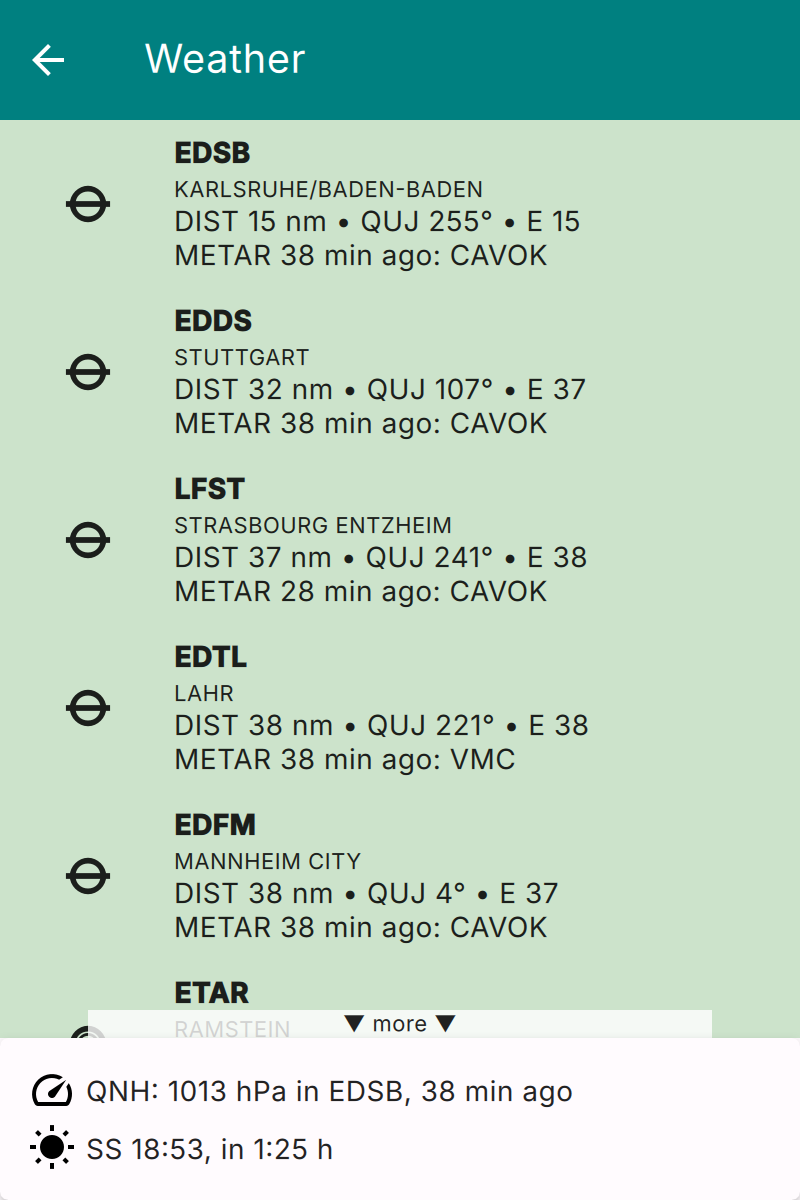
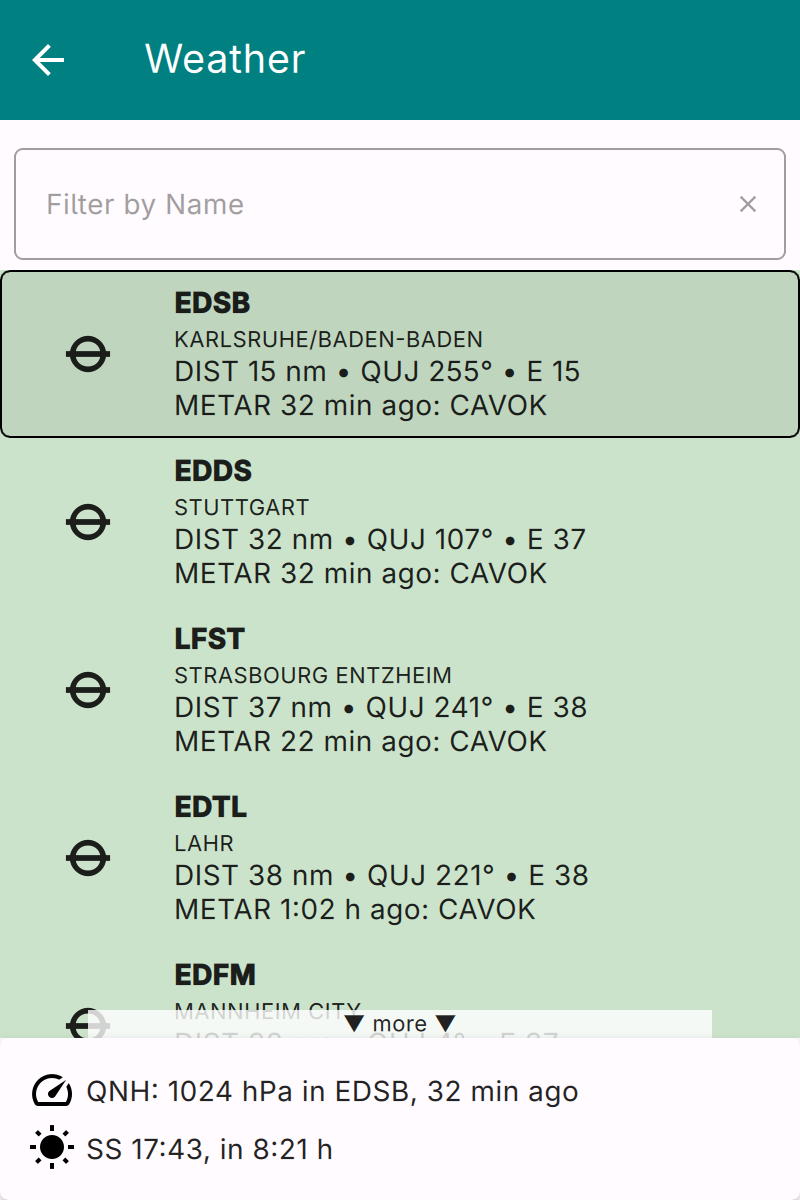
Update

diff --git a/src/11-appendix/licenses_overview.rst b/src/11-appendix/licenses_overview.rst
@@ -1,7 +1,10 @@
 - `Adobe Glyph List For New Fonts <https://github.com/adobe-type-tools/agl-aglfn>`_. BSD 3-Clause "New" or "Revised" License.
+- Android getRotationMatrix and getOrientation. Apache License 2.0.
+- `AndroidX libraries <https://developer.android.com/jetpack/androidx>`_. Apache License 2.0.
 - `Anti-aliasing rasterizer from FreeType 2 <http://www.freetype.org>`_. Freetype Project License or GNU General Public License v2.0 only.
 - `Apache Tika MimeType Definitions <https://github.com/apache/tika/tree/main/tika-core/src/main/resources/org/apache/tika/mime>`_. Apache License 2.0.
 - `BLAKE2 (reference implementation) <https://blake2.net/>`_. Creative Commons Zero v1.0 Universal or Apache License 2.0.
+- `BlueZ <http://www.bluez.org/>`_. GNU General Public License v2.0 only (This does not force user code to be GPL'ed. For more info see details.).
 - `Catch2 <https://github.com/catchorg/Catch2>`_. Boost Software License 1.0.
 - `Clip2Tri Polygon Triangulation Library <https://github.com/raptor/clip2tri>`_. MIT License.
 - `Clipper Polygon Clipping Library <https://sourceforge.net/projects/polyclipping/>`_. Boost Software License 1.0.
@@ -15,24 +18,19 @@
 - `Easing Equations by Robert Penner <http://robertpenner.com/easing/>`_. BSD 3-clause "New" or "Revised" License.
 - `Efficient Binary-Decimal and Decimal-Binary Conversion Routines for IEEE Doubles <https://github.com/google/double-conversion>`_. BSD 3-clause "New" or "Revised" License.
 - `Emoji Segmenter <https://github.com/google/emoji-segmenter>`_. Apache License 2.0.
-- `extra-cmake-modules <https://api.kde.org/ecm/>`_. BSD-3-Clause.
 - `fontawesome <https://github.com/FortAwesome/Font-Awesome>`_. SIL Open Font Licence 1.1.
 - forkfd. MIT License.
 - `Freetype 2 <http://www.freetype.org>`_. Freetype Project License or GNU General Public License v2.0 only.
 - `Freetype 2 - Bitmap Distribution Format (BDF) support <http://www.freetype.org>`_. MIT License.
 - `Freetype 2 - Portable Compiled Format (PCF) support <http://www.freetype.org>`_. MIT License and MIT Open Group variant.
 - `Freetype 2 - zlib <http://www.freetype.org>`_. zlib License.
-- Gear Icon. MIT License.
-- `Georama <https://github.com/productiontype/Georama>`_. SIL Open Font License 1.1.
 - `Google Fonts <https://github.com/google/fonts>`_. Apache 2 License.
 - `Google Material Icon Font <https://fonts.google.com/icons>`_. Apache Licence 2.0.
-- `Gradle wrapper <https://gradle.org>`_. Apache License 2.0.
 - `Guidelines Support Library <https://github.com/microsoft/GSL>`_. MIT License.
 - `HarfBuzz-NG <http://harfbuzz.org>`_. MIT License.
 - `JavaScriptCore Macro Assembler <https://trac.webkit.org/wiki/JavaScriptCore>`_. BSD 2-clause "Simplified" License.
 - `jQuery <https://github.com/jquery/jquery>`_. MIT License.
 - `KDAB's helper class for single-instance policy applications <https://github.com/KDAB/KDSingleApplication>`_. MIT License.
-- `KWin <https://www.kde.org/>`_. BSD 3-Clause "New" or "Revised" License.
 - `libdbus-1 headers <https://www.freedesktop.org/wiki/Software/dbus/>`_. Academic Free License v2.1, or GNU General Public License v2.0 or later.
 - `LibJPEG-turbo <http://libjpeg-turbo.virtualgl.org/>`_. Independent JPEG Group License and BSD 3-Clause "New" or "Revised" License.
 - `LibPNG <http://www.libpng.org/pub/png/libpng.html>`_. libpng License and PNG Reference Library version 2.
@@ -40,10 +38,8 @@
 - `libzip <https://libzip.org>`_. 3-clause BSD license.
 - `Linux Performance Events <https://www.kernel.org>`_. GNU General Public License v2.0 only with Linux Syscall Note.
 - `lunr.js <https://github.com/olivernn/lunr.js>`_. MIT License.
-- Map of Europe from Wikipedia. Creative Commons Attribution 3.0 Unported.
 - `Material Design Icons <https://github.com/google/material-design-icons>`_. Apache License.
 - `Material Sphinx Theme <https://github.com/bashtage/sphinx-material/>`_. MIT License.
-- `Material Symbols and Icons <https://fonts.google.com/icons>`_. Apache License Version 2.0.
 - MD4. Public Domain.
 - `MD4C <https://github.com/mity/md4c>`_. MIT License.
 - MD5. Public Domain.
@@ -60,7 +56,6 @@
 - `Poly2Tri Polygon Triangulation Library <https://github.com/greenm01/poly2tri>`_. BSD 3-clause "New" or "Revised" License.
 - `Presentation Time Protocol <https://wayland.freedesktop.org>`_. MIT License.
 - QEventDispatcher on macOS. BSD 3-clause "New" or "Revised" License.
-- `QHttpEngine <https://github.com/nitroshare/qhttpengine>`_. MIT License.
 - `Qt Toolkit, Libraries and Modules <https://qt.io>`_. GNU General Public License v3.0.
 - `Secure Hash Algorithm SHA-1 <http://www.dominik-reichl.de/projects/csha1/>`_. Public Domain.
 - Secure Hash Algorithm SHA-3 - brg_endian. BSD 2-clause "Simplified" License.
@@ -71,14 +66,22 @@
 - Smooth Scaling Algorithm. BSD 2-clause "Simplified" License and Imlib2 License.
 - `SQLite <https://www.sqlite.org/>`_. SQLite Blessing.
 - `sRGB color profile icc file <http://www.color.org/>`_. International Color Consortium License.
+- `sunset <https://github.com/buelowp/sunset>`_. GNU General Public License v2.0 or later.
+- Text Codec: EUC-JP. BSD 2-clause "Simplified" License.
+- Text Codec: EUC-KR. BSD 2-clause "Simplified" License.
+- Text Codec: GBK. BSD 2-clause "Simplified" License.
+- Text Codec: ISO 2022-JP (JIS). BSD 2-clause "Simplified" License.
+- Text Codec: Shift-JIS. BSD 2-clause "Simplified" License.
+- Text Codec: TSCII. BSD 2-clause "Simplified" License.
+- Text Codecs: Big5, Big5-HKSCS. BSD 2-clause "Simplified" License.
 - `The Public Suffix List <http://publicsuffix.org/>`_. Mozilla Public License 2.0.
 - `TIFF Software Distribution (libtiff) <http://www.simplesystems.org/libtiff/>`_. libtiff License.
 - `TinyCBOR <https://github.com/intel/tinycbor>`_. MIT License.
-- `Titillium Web Font <https://fonts.google.com/specimen/Titillium+Web>`_. SIL OPEN FONT LICENSE Version 1.1.
 - `tl::expected <https://github.com/TartanLlama/expected/>`_. Creative Commons Zero v1.0 Universal.
 - `underscore <https://github.com/jashkenas/underscore>`_. MIT License.
 - `Unicode Character Database (UCD) <https://www.unicode.org/ucd/>`_. Unicode License Agreement - Data Files and Software (2016).
 - `Unicode Common Locale Data Repository (CLDR) <https://cldr.unicode.org/>`_. Unicode License v3.
+- `usb-serial-for-android <https://github.com/mik3y/usb-serial-for-android>`_. MIT License.
 - `Valgrind <http://valgrind.org/>`_. BSD 4-clause "Original" or "Old" License.
 - `Vulkan API Registry <https://www.khronos.org/>`_. Apache License 2.0 or MIT License.
 - `Vulkan Memory Allocator <https://github.com/GPUOpen-LibrariesAndSDKs/VulkanMemoryAllocator>`_. MIT License.
@@ -107,12 +110,10 @@
 - `Wayland xdg-activation Protocol <https://wayland.freedesktop.org>`_. MIT License.
 - `Wayland xdg-decoration Protocol <https://wayland.freedesktop.org>`_. MIT License.
 - `Wayland xdg-toplevel-icon Protocol <https://wayland.freedesktop.org>`_. MIT License.
-- Weather icons from the Noto Emoji collection. Apache License 2.0.
 - `WebGradients <https://webgradients.com/>`_. MIT License.
 - `WebP (libwebp) <https://developers.google.com/speed/webp/>`_. BSD 3-clause "New" or "Revised" License.
 - Wintab API. LCS-Telegraphics License.
 - `Wlr Data Control Unstable V1 Protocol <https://gitlab.freedesktop.org/wlroots/wlr-protocols/>`_. MIT License.
-- Work Sans font by Wei Huang. SIL Open Font License 1.1.
 - `X Server helper <https://www.x.org/>`_. X11 License and Historical Permission Notice and Disclaimer.
 - `XCB-XInput <https://xcb.freedesktop.org/>`_. MIT License.
 - XSVG. Historical Permission Notice and Disclaimer - sell variant.

diff --git a/src/04-tutorialAdvanced/03-airspace.rst b/src/04-tutorialAdvanced/03-airspace.rst
@@ -12,15 +12,28 @@ members to highlight noise-sensitive areas or airspaces available by local
 agreement, or to describe wave windows.
 
 Airspaces defined in imported data will be shown in addition to the standard
-aviation maps included with **Enroute Flight Navigation**.
+aviation maps included with **Enroute Flight Navigation**.  Imported airspaces
+are drawn in the same style as the airspaces of the standard maps.  OpenAir
+files specify the airspace class in the record "AC" and, optionally, a more
+specific airspace type in the record "AY".  **Enroute Flight Navigation**
+understands the airspace classes A to G, as well as the airspace types commonly
+found in OpenAir files: control zones (CTR), aerodrome traffic zones (ATZ),
+radio and transponder mandatory zones (RMZ, TMZ), traffic information areas and
+zones (TIA, TIZ), flight information regions and services (FIR, FIS), gliding
+sectors (GSEC), and prohibited, restricted and danger areas (P, R, Q).  The
+type may be given in the record "AY" or, as in older files, in the record "AC".
+Airspaces of any other class or type are drawn as generic special use airspace.
 
 To import airspace data, transfer the OpenAir or CUB file to your device and
 open the file on your device.  The Section :ref:`importData` explains the
 process in detail.
 
-.. note:: NOTAM-defined airspaces and activation times found in CUB files are
-    ignored. **Enroute Flight Navigation** treats all other imported airspaces
-    as permanently active.
+.. note:: **Enroute Flight Navigation** has no way to represent activation
+    times.  Activation times found in OpenAir or CUB files are ignored, and the
+    airspaces are shown at all times.  When importing an OpenAir file that
+    specifies activation times, the app shows a warning, so that seasonal
+    airspace is not mistaken for permanent airspace.  NOTAM-defined airspaces
+    found in CUB files are ignored as well.
 
 To view and manage your maps, open the main menu and go to "Library/Maps and
 Data".

diff --git a/src/06-referencePages/01-mainPage.rst b/src/06-referencePages/01-mainPage.rst
@@ -395,7 +395,9 @@ Dependence on Static Pressure Information
 
 The side view is only available if **Enroute Flight Navigation** has access to
 static pressure information.  If static pressure information is not available,
-**Enroute Flight Navigation** will show a prominent warning.
+**Enroute Flight Navigation** will show a prominent warning.  The side view is
+also unavailable while the app considers the static pressure information
+implausible, as explained below.
 
 
 Why does **Enroute Flight Navigation** need static pressure for the airspace side view?
@@ -434,6 +436,25 @@ But other apps show side views without static pressure data!
   separation between jet aircraft and airspace limits is sometimes no more than
   500 ft.  In view of the extremely severe consequences of airspace violations,
   we decided against showing questionable data.
+
+
+Why does **Enroute Flight Navigation** report "Inconsistent altitude data"?
+
+  **Enroute Flight Navigation** continuously compares the pressure altitude
+  with the geometric altitude reported by the satellite navigation system.  If
+  the two differ by more than 5,000 ft for about half a minute, the app shows
+  the warning "Inconsistent altitude data" and stops drawing airspaces in the
+  side view, because vertical airspace boundaries can no longer be computed
+  reliably.  The warning goes away once the difference has dropped below
+  3,000 ft.
+
+  Differences of this size mean that the pressure data does not reflect the
+  static pressure outside the aircraft.  This typically happens when the option
+  "Use cabin pressure..." is enabled in a pressurized cabin, or when a flight
+  simulator provides the position while the pressure altitude is measured by a
+  sensor or traffic data receiver on the ground.  Check where the pressure data
+  comes from.  In a pressurized aircraft, disable the option "Use cabin
+  pressure..." on the page :ref:`aircraftPage`.
 
 
 Scale

diff --git a/src/10-referenceTechnology/02-platformNotes.rst b/src/10-referenceTechnology/02-platformNotes.rst
@@ -90,13 +90,20 @@ Linux Desktop
 
 The following command line options are supported.
 
-============== =====================
-Option         Description
-============== =====================
--h, --help     Displays help on commandline options.
---help-all     Displays help including Qt specific options.
--v, --version  Displays version information.
---sg           Run simulator and generate screenshots for Google Play
---sm           Run simulator and generate screenshots for the manual
-============== =====================
+================ =====================
+Option           Description
+================ =====================
+-h, --help       Displays help on commandline options.
+--help-all       Displays help including Qt specific options.
+-v, --version    Displays version information.
+--sg             Run simulator and generate screenshots for Google Play
+--si             Run simulator and generate screenshots for iOS
+--sm             Run simulator and generate screenshots for the manual
+--smac           Run simulator and generate screenshots for macOS
+--smoke-test     Open every page and dialog once, then quit. This option is used for automated testing and leaves the user data untouched.
+--string <name>  Look up the text resource <name> and print it to standard output
+================ =====================
+
+In addition, a file name can be passed as an argument.  The file is then
+imported on startup, as described in the Section :ref:`importData`.
 

diff --git a/src/04-tutorialAdvanced/04-vac.rst b/src/04-tutorialAdvanced/04-vac.rst
@@ -124,6 +124,11 @@ The charts are grouped by origin: charts that came with a country map appear
 under the name of their collection, while charts that you imported yourself
 appear under the heading "Manually Imported".
 
+The text field "Filter by Name" at the top of the tab narrows the list down to
+charts whose name contains the text that you enter.  You can enter several
+words; the list then shows only charts that match all of them.  The "Maps" tab
+of the same page offers a similar filter for the list of maps.
+
 Use the context menus to retrieve basic information about a chart.  The context
 menu entries "Rename" and "Uninstall" are available only for charts that you
 imported yourself.  Charts that came with a country map are removed together
@@ -132,6 +137,12 @@ with that map, on the "Maps" tab of the same page.
 The three-dot menu at the top right of the screen allows clearing your approach
 chart library.  This removes the charts that you imported yourself; charts that
 came with a country map are not affected.
+
+.. note:: If **Enroute Flight Navigation** finds a file in its chart directory
+  that it cannot read, for instance a damaged GeoTIFF file, it moves the file
+  to a subfolder named "unrecognised" instead of deleting it.  On Linux desktop
+  computers, the chart directory is the folder "VAC" in the data directory of
+  the app, typically "~/.local/share/Akaflieg Freiburg/Enroute/VAC".
 
 
 Use Approach Charts

diff --git a/src/03-tutorialBasic/05-simulator.rst b/src/03-tutorialBasic/05-simulator.rst
@@ -47,6 +47,17 @@ following conditions are met.
   Wi-Fi network.  Some routers have "security settings" that disallow data
   transfer between the devices in the "guest network".
 
+.. note:: Flight simulators transmit the position of the simulated aircraft,
+    but not all of them transmit its barometric altitude.  If **Enroute Flight
+    Navigation** obtains pressure altitude from another source in this
+    situation, for instance from the pressure sensor of your device via the
+    option "Use cabin pressure..." on the page :ref:`aircraftPage`, then the
+    pressure altitude measured on the ground will not match the altitude of
+    the simulated aircraft.  The app will show the warning "Inconsistent
+    altitude data" and disable the airspace side view.  Disable the option
+    "Use cabin pressure..." while using a flight simulator, and prefer
+    simulator connections that provide barometric altitude data.
+
 
 Set Up Your Flight Simulator
 ----------------------------
@@ -109,7 +120,7 @@ well with the following EFB-connector programs.
 .. note:: In MSFS2020 cold and dark mode, traffic in the air will not be
     shown. You have to power on the avionics!
 
-.. note:: At the time of writing (04Aug21), the MS Flight Simulator reports only
+.. note:: Users have reported that the MS Flight Simulator transmits only
     traffic that has a tail number.  This is likely due to a bug in the MS
     Flight Simulator software.
 

diff --git a/src/06-referencePages/02-aircraft.rst b/src/06-referencePages/02-aircraft.rst
@@ -99,6 +99,12 @@ Use cabin pressure...
       necessarily agree, with an error depending on airspeed and on the
       configuration of the heating and ventilation systems.
 
+    - In a pressurized cabin, the cabin pressure is unrelated to the static
+      pressure outside the aircraft.  **Enroute Flight Navigation** detects
+      gross mismatches between pressure altitude and satellite altitude, shows
+      the warning "Inconsistent altitude data" and disables the airspace side
+      view, but it cannot detect smaller errors.
+
     - Do not enable this option unless you have convinced yourself that the data
       provided by your sensor is good enough for the intended use.
 
@@ -111,7 +117,14 @@ Units
 ^^^^^
 
 Select the units you want to use for horizontal and vertical distances, and fuel
-volume.
+volume.  Horizontal distances can be shown in nautical miles, kilometers or
+statute miles, vertical distances in feet or meters, and fuel volumes in liters
+or U.S. gallons (1 U.S. gallon = 3.785 l).
+
+.. note:: Versions of **Enroute Flight Navigation** before 4.0.0 converted
+  gallons with the factor of the imperial gallon (4.546 l).  If you entered the
+  fuel consumption of your aircraft in gallons per hour with an earlier version,
+  please re-check the value shown on this page.
 
 
 True airspeed

diff --git a/src/09-referenceWorkflow/01-share.rst b/src/09-referenceWorkflow/01-share.rst
@@ -130,6 +130,16 @@ in the **Enroute Flight Navigation** window.  You can import text data items by
 dragging the text into the **Enroute Flight Navigation** window.
 
 
+Copy-and-Paste (Linux Desktop Only)
+-----------------------------------
+
+If you are running **Enroute Flight Navigation** on a Linux desktop computer,
+you can import text data items, such as the links listed in the section
+`Supported Text Data Items`_ below, by copying the text to the clipboard and
+pasting it into the **Enroute Flight Navigation** window with the keyboard
+shortcut Ctrl+V.
+
+
 Command Line (Linux Desktop Only)
 ---------------------------------
 

diff --git a/src/10-referenceTechnology/03-altitude.rst b/src/10-referenceTechnology/03-altitude.rst
@@ -58,6 +58,14 @@ mobile device.
   interpret ADS-B data. In particular, all PowerFLARM devices use and
   report static pressure.
 
+**Enroute Flight Navigation** checks the pressure altitude for plausibility by
+comparing it with the geometric altitude.  If the two differ by more than
+5,000 ft for about half a minute, the app shows the warning "Inconsistent
+altitude data" and treats barometric altitude data and vertical airspace
+boundaries as unreliable.  In particular, the airspace side view no longer
+shows airspaces.  The section :ref:`staticPressure` explains the typical
+causes.
+
 
 Density Altitude
 ^^^^^^^^^^^^^^^^

diff --git a/src/01-gettingStarted/02-installation.rst b/src/01-gettingStarted/02-installation.rst
@@ -17,6 +17,11 @@ Navigation** can use your aircraft's traffic data receiver as a fallback source.
   traffic data receiver that broadcasts position information, iPad devices without
   SatNav receiver cannot be used for flight navigation.
 
+  Along similar lines, some Android tablets are sold without a SatNav receiver.
+  These devices can install **Enroute Flight Navigation** from Google Play, but
+  they can only be used for flight navigation if the aircraft is equipped with a
+  traffic data receiver that broadcasts position information.
+
 
 App Installation
 ----------------

diff --git a/src/06-referencePages/03-settings.rst b/src/06-referencePages/03-settings.rst
@@ -49,20 +49,14 @@ flying a glider, the gliding sectors are probably not relevant. Hiding the
 gliding sectors might improve the readability of the moving map.
 
 
-Navigation Bar
---------------
-
-These settings apply to the Navigation Bar, shown at the bottom of the moving
-map screen.
-
-
 User Interface
 --------------
 
-Large Fonts
-^^^^^^^^^^^
+Font Size
+^^^^^^^^^
 
-Use this option to enlarge fonts for improved readability.
+Use this option to adjust the font size for optimal readability.  Choose between
+"Normal" and "Huge".
 
 
 Night Mode

diff --git a/src/03-tutorialBasic/02-weather.rst b/src/03-tutorialBasic/02-weather.rst
@@ -66,6 +66,16 @@ full weather forecast.  The section :ref:`metarDialog` describes the dialog in
 full detail.
 
 
+Filter
+------
+
+The text field "Filter by Name" at the top of the page narrows the list down to
+stations whose name or ICAO code contains the text that you enter.  You can
+enter several words; the list then shows only stations that match all of them.
+Press the Return key to open the detailed weather dialog for the first station
+in the filtered list.
+
+
 Page Footer
 -----------
 
